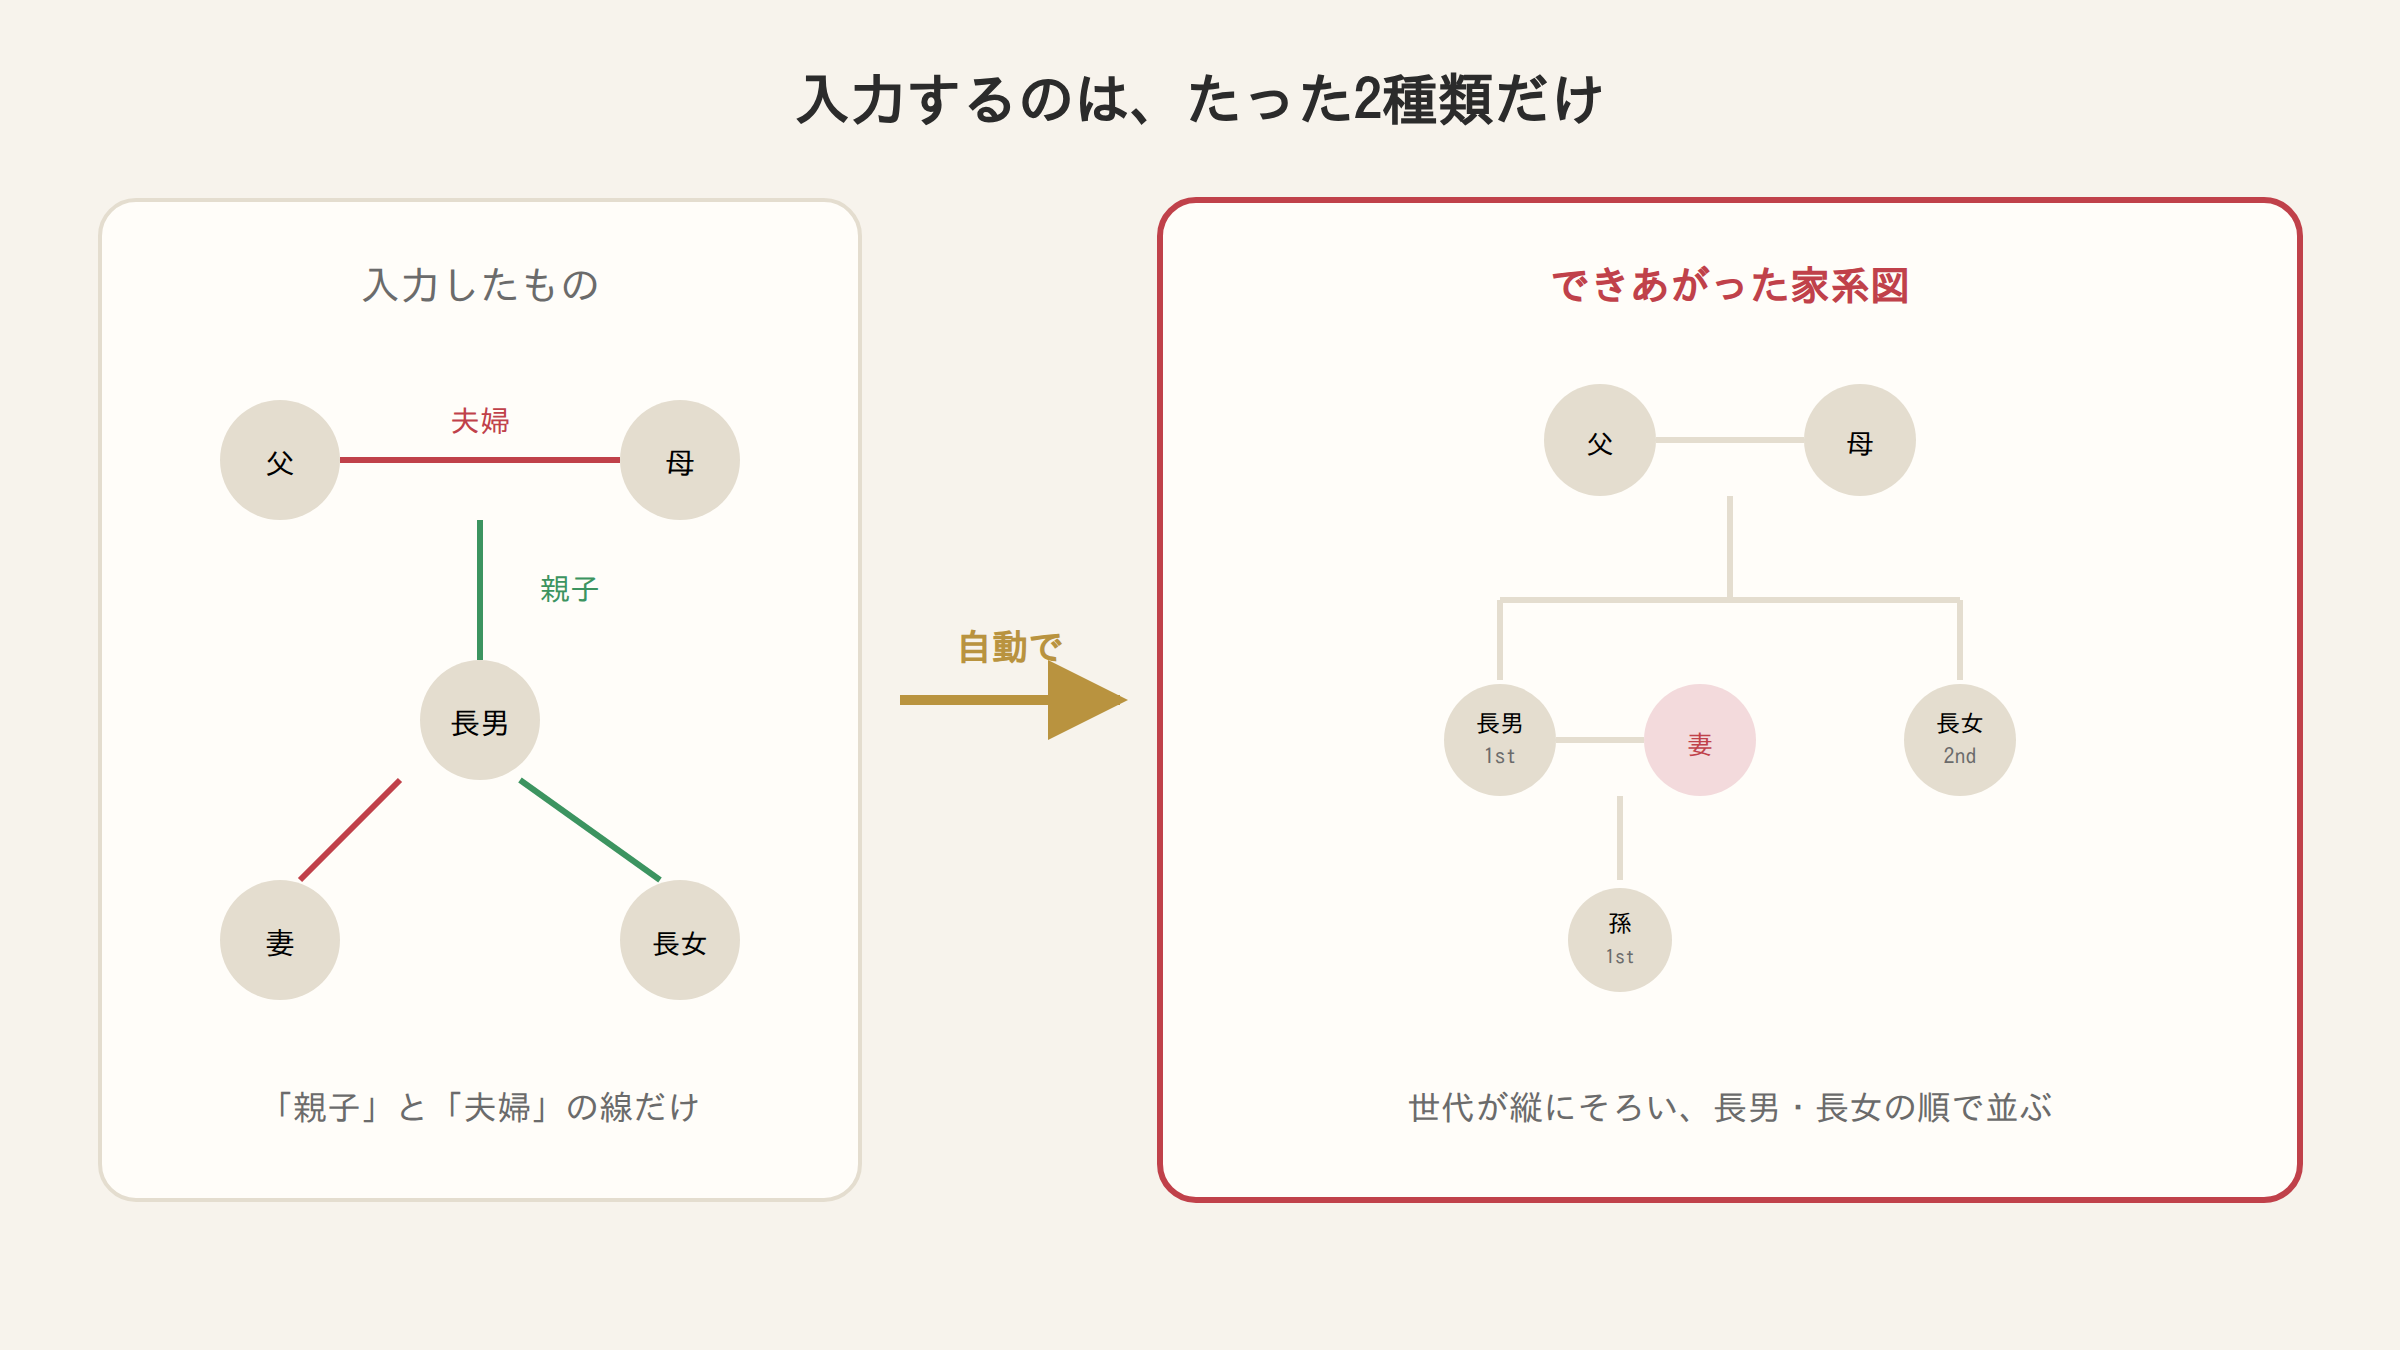
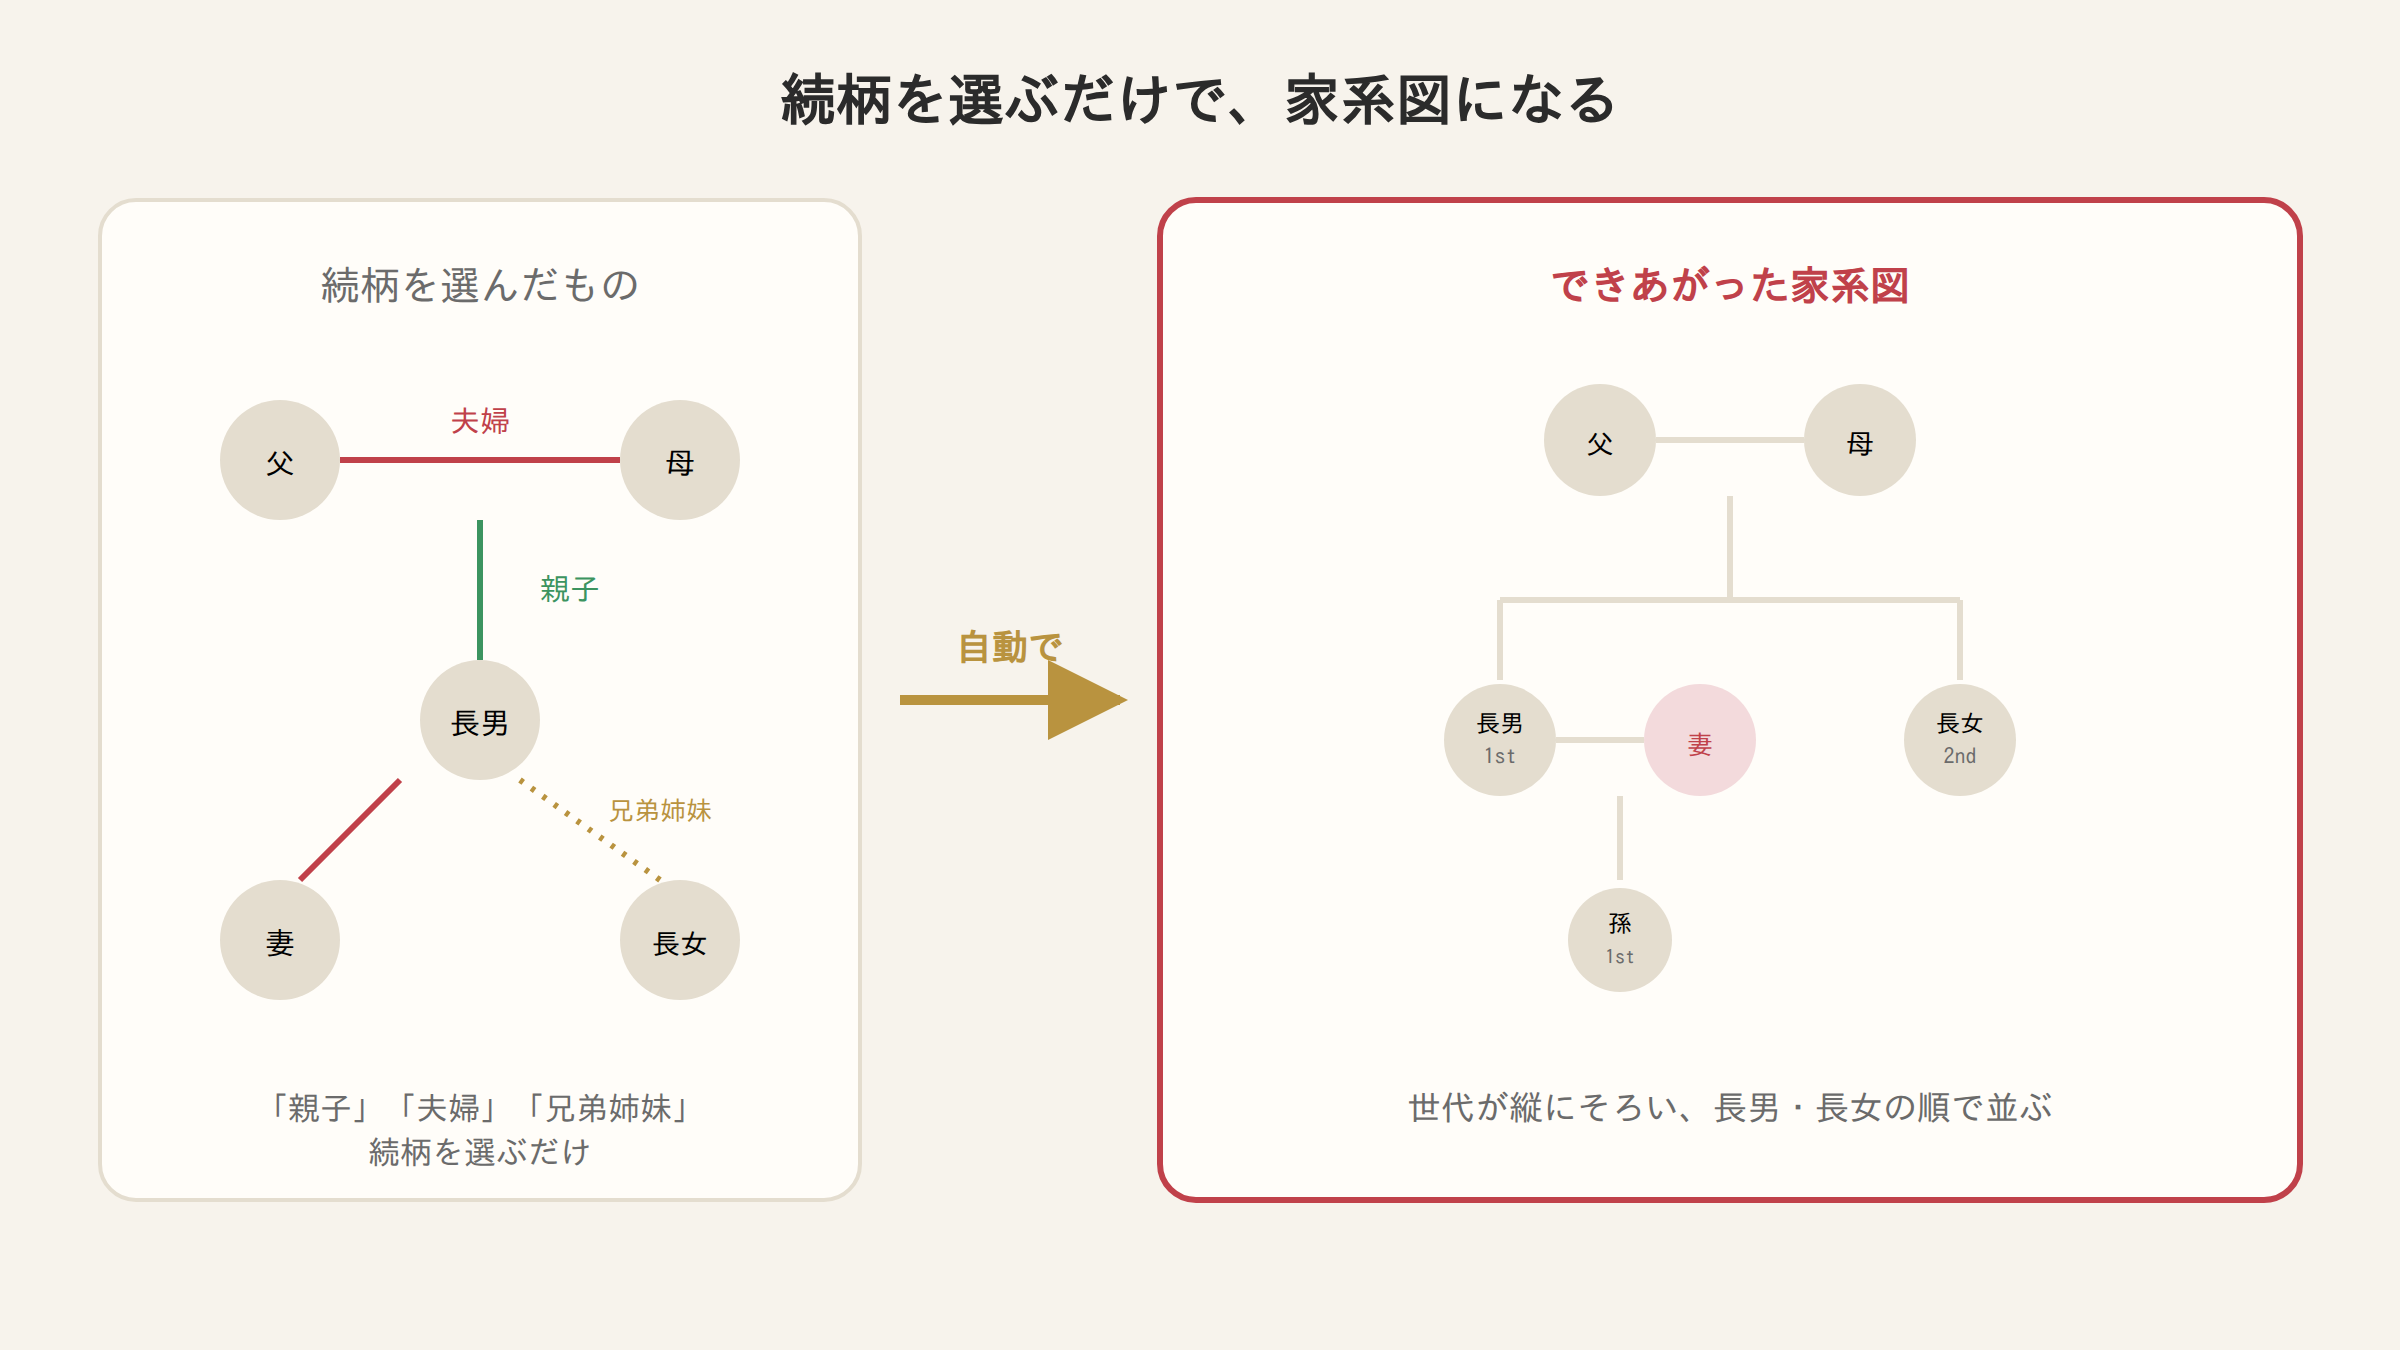
note記事：家系図の入力仕様を正確な内容に修正（親子・夫婦だけでなく兄弟姉妹も選択可、相関図は関係を自由に登録可）

diff --git a/note/03_下書き用_コピペ本文.md b/note/03_下書き用_コピペ本文.md
@@ -93,13 +93,14 @@ Aさんを選んで、Bさんを選んで、関係を「姉」「弟」で選ぶ
 一郎から花子へ、花子からその父へ、父からその兄へ。
 **一度に全部を入力する必要はありません。** 質問に答えていけば、図のほうが少しずつ育っていきます。
 
-## ② 親子と夫婦を入れていたら、家系図ができていた
+## ② 続柄を選んでいくだけで、家系図ができていた
 
 これが自分でも作ってよかったと思っている機能です。
 
-家系図を手で描いた方ならわかると思うのですが、あれは**線を引く作業より、並び順を決める作業のほうが大変**です。世代をそろえて、長男を左に置いて、その配偶者を隣に置いて……とやっていると、一人足すたびに全部描き直しになります。
+相関図のほうは、友人や仕事関係、自由入力まで、関係を好きに登録できます。
+ただそのなかで、「親子」「夫婦」「兄弟姉妹」といった**続柄**を選んでおくと、家系図はそこだけを自動で拾って、世代ごとに縦に並べてくれます。
 
-MyCIRQL では、**登録するのは「親子」と「夫婦」の2種類だけ**です。
+家系図を手で描いた方ならわかると思うのですが、あれは**線を引く作業より、並び順を決める作業のほうが大変**です。世代をそろえて、長男を左に置いて、その配偶者を隣に置いて……とやっていると、一人足すたびに全部描き直しになります。
 
 ▼［ここに fig4.png（家系図のビフォーアフター）を挿入］
 

diff --git a/note/02_本文ドラフト.md b/note/02_本文ドラフト.md
@@ -121,13 +121,14 @@
 
 ---
 
-## ② 親子と夫婦を入れていたら、家系図ができていた
+## ② 続柄を選んでいくだけで、家系図ができていた
 
 これが自分でも作ってよかったと思っている機能です。
 
-家系図を手で描いた方ならわかると思うのですが、あれは**線を引く作業より、並び順を決める作業のほうが大変**です。世代をそろえて、長男を左に置いて、その配偶者を隣に置いて……とやっていると、一人足すたびに全部描き直しになります。
+相関図のほうは、友人や仕事関係、自由入力まで、関係を好きに登録できます。
+ただそのなかで、「親子」「夫婦」「兄弟姉妹」といった**続柄**を選んでおくと、家系図はそこだけを自動で拾って、世代ごとに縦に並べてくれます。
 
-MyCIRQL では、**登録するのは「親子」と「夫婦」の2種類だけ**です。
+家系図を手で描いた方ならわかると思うのですが、あれは**線を引く作業より、並び順を決める作業のほうが大変**です。世代をそろえて、長男を左に置いて、その配偶者を隣に置いて……とやっていると、一人足すたびに全部描き直しになります。
 
 ![図4：家系図のビフォーアフター](img/fig4.png)
 *（note にアップロード：`note/img/fig4.png`）*
